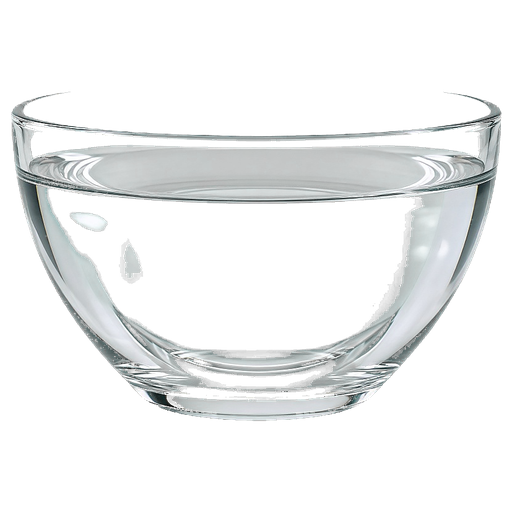
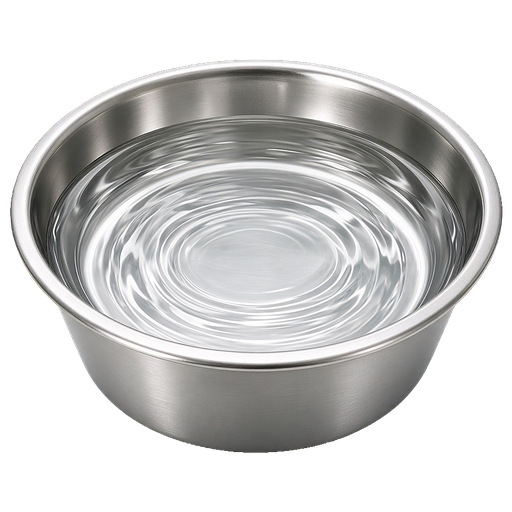
Polish shop portraits so dark animals and water stay visible
Add a soft lift behind card art and replace the glass water bowl with a steel dish that reads on the dark emporium UI.

diff --git a/html/style.css b/html/style.css
@@ -104,7 +104,7 @@ body.preview {
     place-items: center;
     flex-shrink: 0;
     background:
-        radial-gradient(circle at 30% 25%, rgba(255, 255, 255, 0.16), transparent 42%),
+        radial-gradient(circle at 50% 60%, rgba(255, 247, 232, 0.16), transparent 62%),
         var(--card-2);
     border: 1px solid var(--line);
     overflow: hidden;
@@ -581,6 +581,8 @@ h1 {
     display: grid;
     place-items: center;
     margin-bottom: 10px;
+    border-radius: 14px;
+    background: radial-gradient(circle at 50% 70%, rgba(255, 247, 232, 0.1), transparent 68%);
 }
 
 .shop-card img {
@@ -647,6 +649,8 @@ h1 {
     object-fit: contain;
     margin-bottom: 10px;
     filter: drop-shadow(0 12px 18px rgba(0, 0, 0, 0.4));
+    background: radial-gradient(circle at 50% 70%, rgba(255, 247, 232, 0.1), transparent 68%);
+    border-radius: 14px;
 }
 
 .shop-detail h3 {
